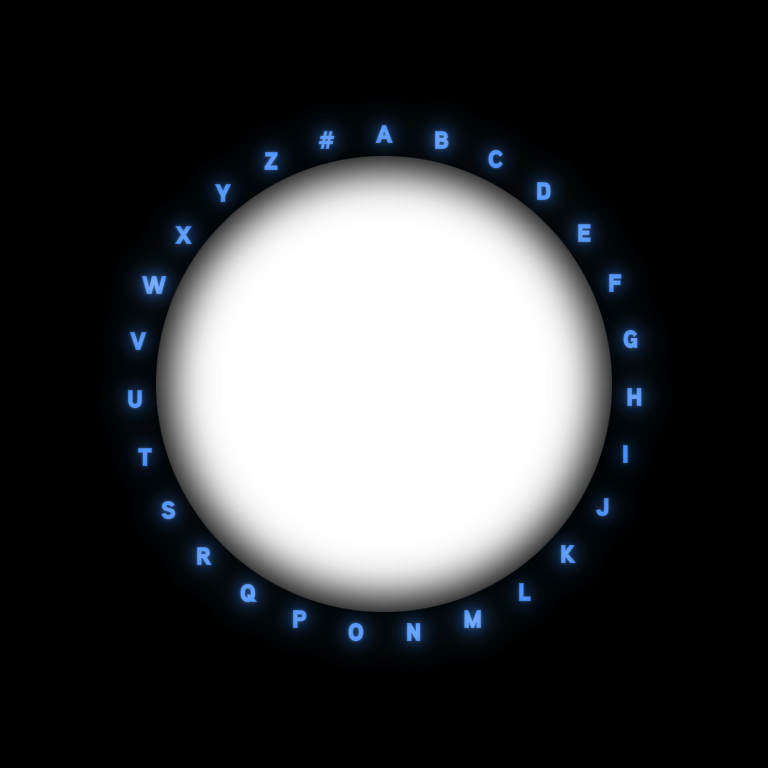
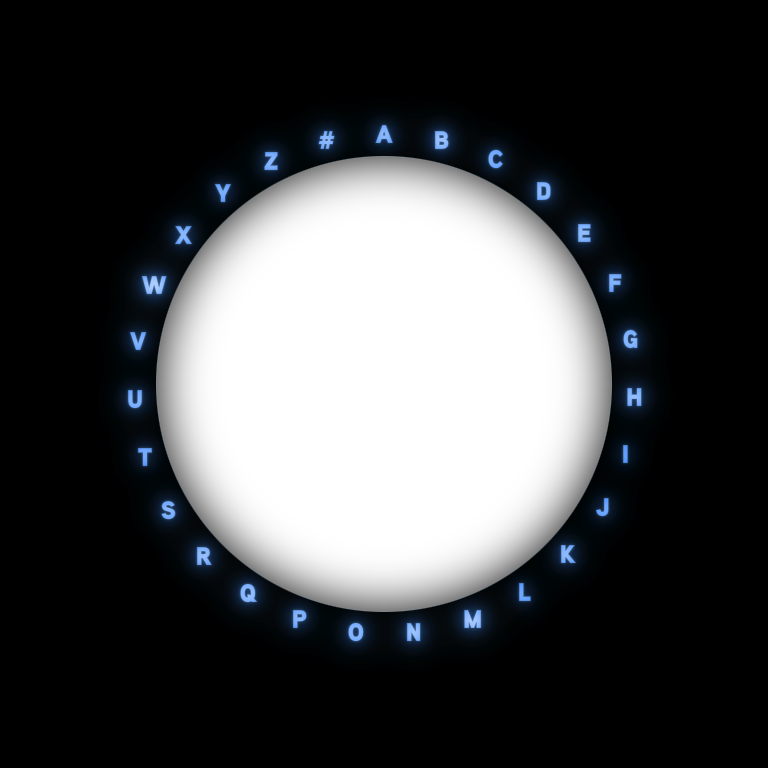
alphawheel data... slow if many many artists

Changed region(s): [[0.1562, 0.1562, 0.8438, 0.8438], [0.75, 0.2812, 0.7812, 0.3125], [0.2188, 0.2812, 0.25, 0.3125]]

diff --git a/src/Data.cpp b/src/Data.cpp
@@ -60,6 +60,36 @@ void Data::backgroundInitArtists()
 	Flurry::getInstrumentation()->startTimeEvent("Music Loading");
 	pending = getArtists();		
 	std::cout << "got " << pending.size() << " artists" << std::endl;
+	
+	
+// QUICK FIX FOR GETTING MORE DATA ONTO THE ALPHAWHEEL
+	string alphaString	= "ABCDEFGHIJKLMNOPQRSTUVWXYZ#";
+	for( int i=0; i<27; i++ ){
+		mNumArtistsPerChar[alphaString[i]] = 0;
+	}
+	for( vector<ci::ipod::PlaylistRef>::iterator it = pending.begin(); it != pending.end(); ++it ){
+		string name		= (*it)->getArtistName();
+		string the		= name.substr( 0, 4 );
+		char firstLetter;
+		
+		if( the == "The " || the == "the " ){
+			firstLetter = name[4];
+		} else {
+			firstLetter = name[0];
+		}
+		
+		if( isdigit(firstLetter) ){
+			firstLetter = '#';
+		} else {
+			firstLetter = static_cast<char> ( toupper( firstLetter ) );
+		}
+		
+		mNumArtistsPerChar[firstLetter] ++;
+	}
+	buildVertexArray();
+// END ALPHAWHEEL QUICK FIX
+	
+	
 	Flurry::getInstrumentation()->stopTimeEvent("Music Loading");
     std::map<string, string> params;
     params["NumArtists"] = i_to_string(pending.size());;
@@ -78,6 +108,57 @@ bool Data::update()
 	}
 	return false;
 }
+
+void Data::buildVertexArray()
+{
+	string alphaString	= "ABCDEFGHIJKLMNOPQRSTUVWXYZ#";
+	mWheelDataVerts	= new float[ 27*2*6 ]; // LETTERS * 2DIMENSIONS * 2TRIANGLES
+	mWheelDataTexCoords = new float[ 27*2*6 ];
+	
+	float baseRadius = 230.0f;
+	int index = 0;
+	int tIndex = 0;
+	for( int i=0; i<27; i++ ){
+		float numArtistsAtChar	= (float)mNumArtistsPerChar[alphaString[i]] * 2.0f;
+		float per				= (float)i/27.0f;
+		float angle				= per * TWO_PI - M_PI_2;
+		float angle1			= angle - 0.085f;
+		float angle2			= angle + 0.085f;
+		float cosAngle1			= cos( angle1 );
+		float sinAngle1			= sin( angle1 );
+		float cosAngle2			= cos( angle2 );
+		float sinAngle2			= sin( angle2 );
+		
+		mWheelDataVerts[index++] = cosAngle1 * baseRadius;
+		mWheelDataVerts[index++] = sinAngle1 * baseRadius;
+		mWheelDataVerts[index++] = cosAngle2 * baseRadius;
+		mWheelDataVerts[index++] = sinAngle2 * baseRadius;
+		mWheelDataVerts[index++] = cosAngle1 * ( baseRadius - numArtistsAtChar );
+		mWheelDataVerts[index++] = sinAngle1 * ( baseRadius - numArtistsAtChar );
+		
+		mWheelDataVerts[index++] = cosAngle2 * baseRadius;
+		mWheelDataVerts[index++] = sinAngle2 * baseRadius;
+		mWheelDataVerts[index++] = cosAngle1 * ( baseRadius - numArtistsAtChar );
+		mWheelDataVerts[index++] = sinAngle1 * ( baseRadius - numArtistsAtChar );
+		mWheelDataVerts[index++] = cosAngle2 * ( baseRadius - numArtistsAtChar );
+		mWheelDataVerts[index++] = sinAngle2 * ( baseRadius - numArtistsAtChar );
+		
+		mWheelDataTexCoords[tIndex++] = 0.0f;
+		mWheelDataTexCoords[tIndex++] = 0.0f;
+		mWheelDataTexCoords[tIndex++] = 1.0f;
+		mWheelDataTexCoords[tIndex++] = 0.0f;
+		mWheelDataTexCoords[tIndex++] = 0.0f;
+		mWheelDataTexCoords[tIndex++] = 1.0f;
+		
+		mWheelDataTexCoords[tIndex++] = 1.0f;
+		mWheelDataTexCoords[tIndex++] = 0.0f;
+		mWheelDataTexCoords[tIndex++] = 0.0f;
+		mWheelDataTexCoords[tIndex++] = 1.0f;
+		mWheelDataTexCoords[tIndex++] = 1.0f;
+		mWheelDataTexCoords[tIndex++] = 1.0f;
+	}
+}
+
 
 void Data::filterArtistsByAlpha( char c )
 {

diff --git a/src/AlphaWheel.cpp b/src/AlphaWheel.cpp
@@ -44,6 +44,7 @@ void AlphaWheel::setup( AppCocoaTouch *app )
 	
 	// Textures
 	mWheelTex		= gl::Texture( loadImage( loadResource( "alphaWheel.png" ) ) );
+	mBlurRectTex	= gl::Texture( loadImage( loadResource( "blurRect.png" ) ) );
 	
 	mAlphaString	= "ABCDEFGHIJKLMNOPQRSTUVWXYZ#";
 	mAlphaIndex		= 0;
@@ -168,17 +169,19 @@ void AlphaWheel::update( float fov )
 	}	
 }
 
-void AlphaWheel::draw( )
+void AlphaWheel::draw( GLfloat *verts, GLfloat *texCoords )
 {
-	if( mWheelScale < 1.0f ){
+	if( mWheelScale < 0.9f ){
 		gl::pushModelView();
         gl::multModelView( mOrientationMatrix );
         
 		gl::translate( mInterfaceCenter );
 		gl::scale( Vec3f( mWheelScale + 1.0f, mWheelScale + 1.0f, 1.0f ) );
-        
+
+        drawWheelData( verts, texCoords );
         drawWheel();
-        
+
+		
 		if( mAlphaChar != ' ' )
 			drawAlphaChar();
         
@@ -206,7 +209,7 @@ void AlphaWheel::drawWheel()
         // right bar, relative to center:
         gl::drawSolidRect( Rectf( w, -interfaceSize.y/2, interfaceSize.x/2, h ) );
     } else {
-		Vec2f interfaceSize = getWindowSize().xy(); // SWIZ!
+		Vec2f interfaceSize = getWindowSize().xy();
 		gl::color( Color::black() );
         // top bar, relative to center:
         gl::drawSolidRect( Rectf( -interfaceSize.x/2, -interfaceSize.y/2, interfaceSize.x/2, -h ) );
@@ -215,14 +218,32 @@ void AlphaWheel::drawWheel()
 	}
 }
 
+void AlphaWheel::drawWheelData( GLfloat *verts, GLfloat *texCoords )
+{
+	float c = 1.0f - mWheelScale;
+	gl::color( ColorA( COLOR_BLUE, c ) );
+	gl::pushModelView();
+	glEnableClientState( GL_VERTEX_ARRAY );
+	glEnableClientState( GL_TEXTURE_COORD_ARRAY );
+	glVertexPointer( 2, GL_FLOAT, 0, verts );
+	glTexCoordPointer( 2, GL_FLOAT, 0, texCoords );
+	gl::enableAlphaBlending();
+	mBlurRectTex.enableAndBind();
+	glDrawArrays( GL_TRIANGLES, 0, 27*6 );
+	mBlurRectTex.disable();
+	gl::enableAlphaBlending();
+	glDisableClientState( GL_VERTEX_ARRAY );
+	glDisableClientState( GL_TEXTURE_COORD_ARRAY );
+	gl::popModelView();
+}
+
 void AlphaWheel::drawAlphaChar()
 {
 	//std::cout << "AlphaWheel::drawAlphaChar mAlphaIndex = " << mAlphaIndex << std::endl;
 	float w = mAlphaTextures[mAlphaIndex].getWidth() * 0.5f;
 	float h = mAlphaTextures[mAlphaIndex].getHeight() * 0.5f;
 	
-    // TODO: is this COLOR_BLUE? should it be?
-	gl::color( ColorA( 0.1f, 0.2f, 0.6f, 1.0f - mWheelScale ) );
+	gl::color( ColorA( COLOR_BLUE, 1.0f - mWheelScale ) );
 	
     mAlphaTextures[mAlphaIndex].enableAndBind();
 	gl::drawSolidRect( Rectf( -w, -h, w, h ) );

diff --git a/include/AlphaWheel.h b/include/AlphaWheel.h
@@ -16,7 +16,6 @@
 #include "cinder/Color.h"
 #include "cinder/Font.h"
 
-
 class AlphaWheel {
 public:
 	AlphaWheel();
@@ -29,7 +28,7 @@ public:
     bool    orientationChanged( ci::app::OrientationEvent event );
 	void	update( float fov );
 	void	setTimePinchEnded( float timePinchEnded );
-	void	draw();
+	void	draw( GLfloat *verts, GLfloat *texCoords );
     // TODO: if we're resetting prev alpha char here should we fire a callback?
 	void	setShowWheel( bool b ){ mShowWheel = b; if ( mShowWheel ) mPrevAlphaChar = ' '; }
 	bool	getShowWheel(){ return mShowWheel; }
@@ -49,6 +48,7 @@ public:
 	
 private:
 	void	drawWheel();
+	void	drawWheelData( GLfloat *verts, GLfloat *texCoords );
 	void	drawAlphaChar();    
 	bool	selectWheelItem( const ci::Vec2f &pos, bool closeWheel );
     
@@ -65,6 +65,7 @@ private:
 	float			mWheelScale;
 	
 	ci::gl::Texture	mWheelTex;
+	ci::gl::Texture mBlurRectTex;
 	std::vector<ci::gl::Texture> mAlphaTextures;
 	
 	ci::CallbackMgr<bool(AlphaWheel*)> mCallbacksAlphaCharSelected;

diff --git a/src/KeplerApp.cpp b/src/KeplerApp.cpp
@@ -739,6 +739,9 @@ bool KeplerApp::onAlphaCharSelected( AlphaWheel *alphaWheel )
 bool KeplerApp::onAlphaCharStateChanged( State *state )
 {
 	mData.filterArtistsByAlpha( mState.getAlphaChar() );
+	
+	std::cout << "Letter " << mState.getAlphaChar() << " has " << mData.mFilteredArtists.size() << " artists" << std::endl;
+	
 	mWorld.filterNodes();
 	mBreadcrumbs.setHierarchy( mState.getHierarchy() );	
 	return false;
@@ -1263,7 +1266,7 @@ void KeplerApp::drawScene()
     gl::enableAlphaBlending();
 	
 // EVERYTHING ELSE
-	mAlphaWheel.draw();
+	mAlphaWheel.draw( mData.mWheelDataVerts, mData.mWheelDataTexCoords );
     mUiLayer.draw( mPanelButtonsTex );
     mBreadcrumbs.draw();
 	

diff --git a/include/Data.h b/include/Data.h
@@ -21,9 +21,14 @@ class Data {
 	
 	std::vector<ci::ipod::PlaylistRef> mArtists;
 	std::vector<int> mFilteredArtists;
+	std::map< char, int > mNumArtistsPerChar;
+	
+	GLfloat *mWheelDataVerts;
+	GLfloat *mWheelDataTexCoords;
 	
   private:
 	void backgroundInitArtists();
+	void buildVertexArray();
 	bool isIniting;
 	std::vector<ci::ipod::PlaylistRef> pending;
 	
